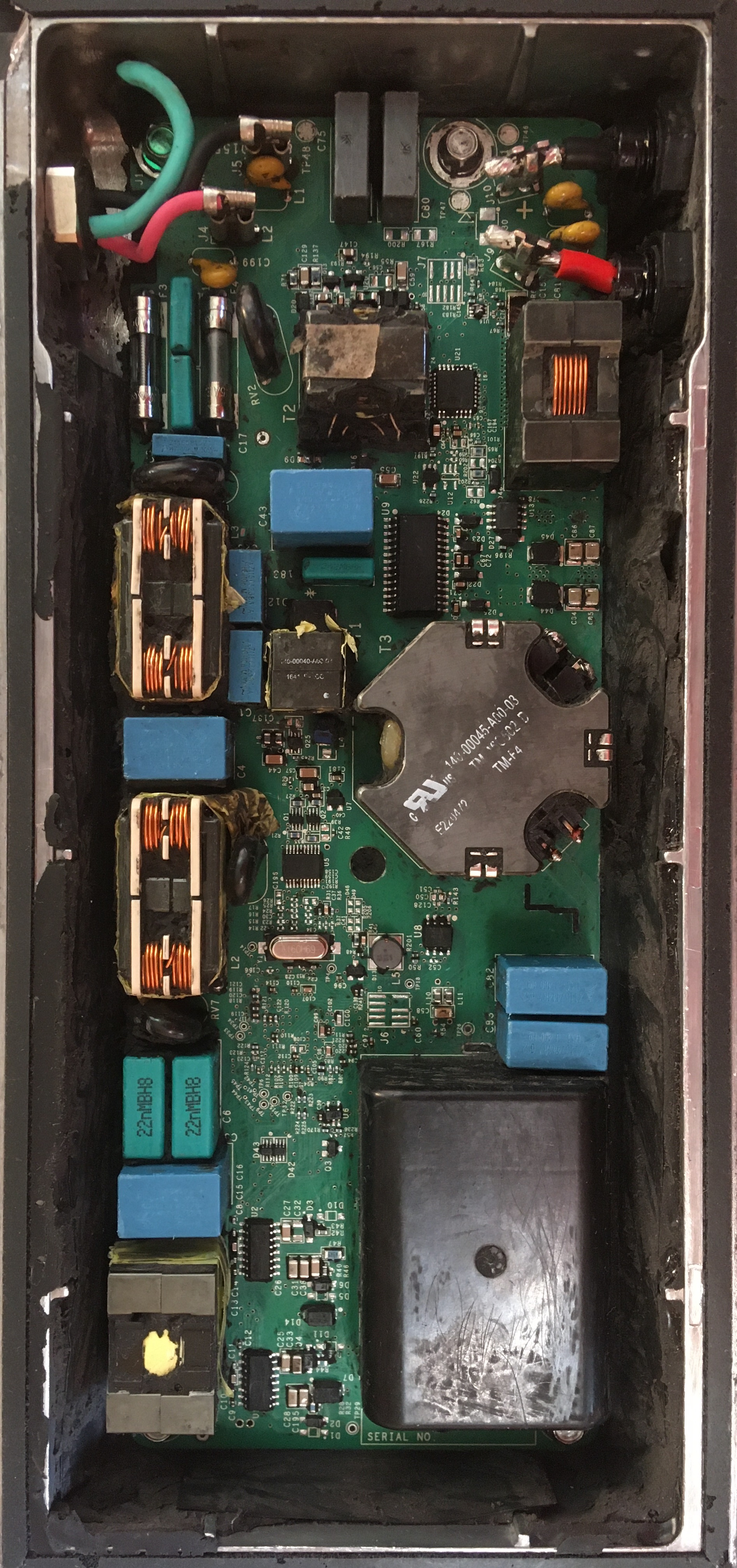
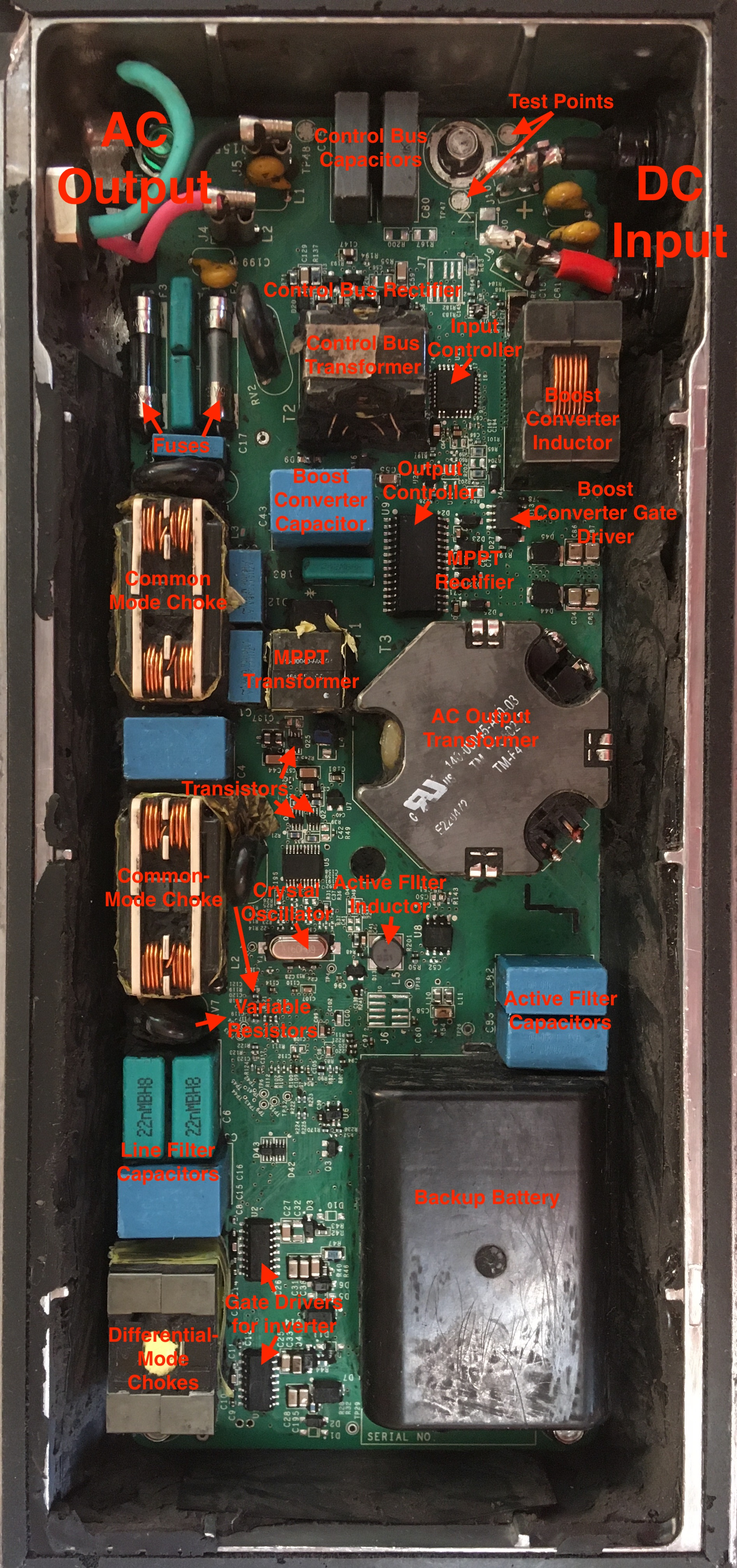
microinverter published

diff --git a/teardowns/microinverter.html b/teardowns/microinverter.html
@@ -24,7 +24,7 @@
 	<p class="label">Front View</p>
 	<img src="../images/teardowns/microinverter/label.jpg" alt="Product Label on Back of Microinverter" class="center">
 	<p class="label">Back View</p>
-	<p>&emsp;&emsp;Before I get into the teardown, I'd like to discuss a bit of the history of how microinverters came to be and what other products are used as alternatives based on some quick internet searches I did. Any solar energy system includes some kind of inverter to convert the DC output of the panel to the AC input used in power lines, homes, and appliances. Inverters accomplish this conversion from DC to AC fundamentally through a series of electrically controlled switches (usually IGBTs) that are rapidly opened and closed over intervals oscillitating in length (i.e Pulse Width Modulation (PWM)) imitating the sinusoidal nature of alternating current. When solar panels first came about commercially, the energy was converted from AC to DC using string inverters. Several solar panels would be connected together through linking wires, forming a "string" of solar panels, and then fed into one centralized inverter unit. Daisy-chaining the solar panels in this fashion makes for easy installation, but when the output of one solar panel in the string is lowered, all the rest in the string are limited by that weakest link. To combat this issue, power optimizers can be placed on each panel to modulate the DC power output of each panel so that they can function at their highest output independent of the output of others in the string. The power optimizers on each panel also allow one to monitor the output of individual panels rather than just the output of the whole string. Despite these improvements, power optimizers still require the use of a centralized inverter which limits the size of the solar panel array that can be used and introduces a central point of failure capable of shutting down all system functionality. Adding an inverter unit under each solar panel&mdash;microinverters&mdash;addresses these problems at the expense of higher part and installation costs. String inverters, inverters with power optimizers, and microinverters each provide different benefits and so the decision of which to use is often left to the user with recommendations provided based on their particular application.</p>
+	<p>&emsp;&emsp;Before I get into the teardown, I'd like to discuss a bit of the history of how microinverters came to be and what other products are used as alternatives based on some quick internet searches I did. Any solar energy system includes some kind of inverter to convert the DC output of the panel to the AC input used in power lines, homes, and appliances. Inverters accomplish this conversion from DC to AC fundamentally through a series of electrically controlled switches (usually IGBTs or high-voltage MOSFETs) that are rapidly opened and closed over intervals oscillitating in length (i.e Pulse Width Modulation (PWM)) imitating the sinusoidal nature of alternating current. When solar panels first came about commercially, the energy was converted from AC to DC using string inverters. Several solar panels would be connected together through linking wires, forming a "string" of solar panels, and then fed into one centralized inverter unit. Daisy-chaining the solar panels in this fashion makes for easy installation, but when the output of one solar panel in the string is lowered, all the rest in the string are limited by that weakest link. To combat this issue, power optimizers can be placed on each panel to modulate the DC power output of each panel so that they can function at their highest output independent of the output of others in the string. The power optimizers on each panel also allow one to monitor the output of individual panels rather than just the output of the whole string. Despite these improvements, power optimizers still require the use of a centralized inverter which limits the size of the solar panel array that can be used and introduces a central point of failure capable of shutting down all system functionality. Adding an inverter unit under each solar panel&mdash;microinverters&mdash;addresses these problems at the expense of higher part and installation costs. String inverters, inverters with power optimizers, and microinverters each provide different benefits and so the decision of which to use is often left to the user with recommendations provided based on their particular application.</p>
 </section>
 <hr>
 <section>
@@ -45,7 +45,7 @@
 <section>
 	<h3>Microinverter PCA</h3>
 	<p>&emsp;&emsp;Using the silkscreen PCB labels, patent schematics, and online resources for power electronics I did my best to identify the important components of this microinverter PCA. With that being said, the labels in the picture below are merely educated guesses. I've had no formal training in electrical engineering. Furthermore, I'm missing a large chunk of information since I wasn't able to easily remove the board and examine the components mounted on the underside.</p>
-	<img src="../images/teardowns/microinverter/PCA copy.jpg" alt="Close-up View of PCA" class="center">
+	<img src="../images/teardowns/microinverter/PCA.jpg" alt="Close-up View of PCA" class="center">
 	<p class="label">Microinverter PCA</p>
 	<p>&emsp;&emsp;There's a lot happening on this PCB, but some generalizations can be made across the board. The blue, green, and gray plastic boxes are likely film capacitors. The yellow disc-like nubs at both the DC input and AC input are also capacitors, although I'm not sure what kind. The metals blocks with exposed copper wiring are fundamentally just large inductors or sets of inductors. These inductors include the blocks labelled inductor, transformer, and choke. The compact black boxes with many pinouts are integrated circuits (ICs), but what function they serve is not easily evident from the outside. I guessed their functionalities based on their size and relative locations on the board. The large black box in the bottom right didn't appear to be labeled. Any number of things could be hidden under the enclosure, but given it's heft I guessed it might be a backup battery. I'm guessing this backup battery is used when the solar panel isn't producing any energy and the microinverter wants to continue communicating with the centralized power distribution system to tell it that the microinverter is still functioning properly despite it not producing any energy. This hypothesis was inspired by the fact that the people who replaced the inverter stated that they had received notice from the microinverter that it had failed. One thing that I saw that I hadn't seen before were test points (silkscreen labeled TP). Test points are conductive discs on the PCB where someone could stick a multimeter probe to take measurements, likely for quality assurance purposes. Beyond that, there are tons of tiny surface mount capacitors, resistors, diodes, transistors, and ICs.</p>
 	<p>&emsp;&emsp;Looking at the PCA gives us some idea of what components play a role in the microinverter operation, but it doesn't tell us how the product works. To understand this, I went to the patent material for this microinverter and supplemented this with internet searches on power electronics concepts. Generally, the functionality of the microinverter can be split into two stages: input processing and output processing.</p>
@@ -62,27 +62,35 @@
 	<img src="../images/teardowns/microinverter/boostConverter.png" alt="Close-up View of PCA" class="center">
 	<p class="label">Boost Converter Circuit</p>
 	<p>&emsp;&emsp;After this optimal voltage is used to draw power from the solar panels, the signal is stepped up further in voltage. Instead of doing this again with a boost converter, the signal is instead converted to AC using an inverter, then stepped up in voltage using a transformer, then rectified back to DC. I found this most unusual as it seemed exceedingly complex, but it may be possible that at higher voltages continuing to raise the voltage of DC signals is made easier by converting to AC, using a transformer, and then converting back to DC instead of trying to use more powerful boost converters. As a note, direct current won't flow through transformers unless PWM is used since the induced EMF in the second coil can only be generated by an alternating magnetic field from the first coil.</p>
-	<p>&emsp;&emsp;Rectifiers aren't solitary components, rather a group of four diodes with several nearby capacitors usually. This is why I labelled the two separate groups of four surface mount diodes on the PCB as rectifiers. So far though, I've only discussed the purpose of one in rectifying the high voltage AC signal. The other is likely a part of a similar circuit with an inverter, transformer, and rectifier except in this case the transformer is a step-down transformer. This rectifier and associated transformer I labeled as "control rectifier" and "control transformer" since I believed that they stepped down the voltage to provide power to the control electronics on board the microinverter. The control ICs likely are meant to operate under 12V whereas the voltage output by the solar panel is usually around 25V and will be even higher after boost conversion. "Where is the 'control inverter'?" you might ask. The large insulated-gate bipolar transistors (IGBTs) responsible for the inversion to AC are likely located on the underside of the PCB.</p>
+	<p>&emsp;&emsp;Rectifiers aren't solitary components, rather a group of four diodes with several nearby capacitors usually. This is why I labelled the two separate groups of four surface mount diodes on the PCB as rectifiers. So far though, I've only discussed the purpose of one in rectifying the high voltage AC signal. The other is likely a part of a similar circuit with an inverter, transformer, and rectifier except in this case the transformer is a step-down transformer. This rectifier and associated transformer I labeled as "control bus rectifier" and "control bus transformer" since I believed that they stepped down the voltage to provide power to the control electronics on board the microinverter. The control ICs likely are meant to operate under 12V whereas the voltage output by the solar panel is usually around 25V and will be even higher after boost conversion. "Where is the 'control inverter'?" you might ask. The large transistors responsible for the inversion to AC are likely located on the underside of the PCB.</p>
 	<img src="../images/teardowns/microinverter/inputInverter.png" alt="Close-up View of PCA" class="center">
 	<p class="label">Input Converter Block Diagram (US 8,279,642)</p>
 	<img src="../images/teardowns/microinverter/inputInverterCircuit.png" alt="Close-up View of PCA" class="center">
 	<p class="label">Input Converter Circuit Diagram (US 8,279,642)</p>
 	<h4>Output Processing</h4>
-	<p>&emsp;&emsp;</p>
+	<p>&emsp;&emsp;Although the signal was inverted during the input processing stage so that a transformer could be used to further raise the voltage, it was rectified so that DC power could be stored in the power bus. The current must be inverted again so that the final output is AC. This can't just be any AC either, it has to be 120V 60Hz AC with a convincing smooth sinusoidal nature. After inverting the signal to AC, another transformer is required to step-up the voltage to 120V. Based on the relative positioning of the ununusal octagon transformer to the outflow path, I believed it to be responsible and labeled it the "AC Output Transformer". The shape seemed quite unusual for a transformer instead of the regular iron block surrounded by copper windings. One guess I have is that the transformer may have many sets of inductors which can be used to raise the voltage to 120V from a number of different voltages at the power bus due to the effects of MPPT. I attempted to search for the product by the label atop it, but all I learned was that the RU logo is used by Underwriters Laboratories (UL)&mdash;an engineering safety certification company&mdash;to indicate that parts labeled meet certain quality standards. To generate oscillations at a frequency of 60Hz, I assume that the output controller makes use of the crystal oscillator to keep track of time.</p>
+	<p>&emsp;&emsp;The signal is inverted from DC to AC using a switch mode power supply strategy similar to the boost converter. Ideal alternating current is a sinusoidal wave alternating around zero between a maximum positive and negative value. The power inverter imitates this sinusoidal wave by opening and closing switches using PWM, two switches for the positive half of the wave and another two for the negative half of the wave. These switches are high power transistors (usually IGBTs or high-voltage MOSFETs), relatively large components often having metal backings. Looking at the diagram below, closing switches q1 and q4 would generate positive direct current, while closing switches q2 and q3 would generate negative direct current. Therefore, switching between these two states would just generate a square wave of alternating current not the desired sinusoidal wave. </p>
 	<img src="../images/teardowns/microinverter/inversionConceptCircuit.png" alt="Close-up View of PCA" class="center">
 	<p class="label">Inverter Circuit Diagram (US 8,508,964)</p>
+	<p>&emsp;&emsp;By rapidly opening and closing the switches with a PWM control signal, on average a more sinusoidal wave is produced. Note the PWM pulse width that I added in red to the patent figure below showing how the PWM pulse width (i.e. duty cycle) grows and shrinks over the course of the wave. Only the positive portion of this wave is pictured.</p>
 	<img src="../images/teardowns/microinverter/inversionConcept.png" alt="Close-up View of PCA" class="center">
 	<p class="label">Alternating Current Generated from PWM of DC Source Through Inductors (US 8,508,964)</p>
+	<p>&emsp;&emsp;It's interesting to note that the output controller makes use of a proportional-integral (PI) controller to adjust the PWM signal which ultimately controls the frequency and voltage&mdash;albeit another transformer is used later&mdash;of the output AC signal. This would seem to suggest that the system is optimized to reduce steady state error while fast reactions to dramatic changes are considered less important in this application.</p>
 	<img src="../images/teardowns/microinverter/outputController.png" alt="Close-up View of PCA" class="center">
 	<p class="label">Output Converter Controller Block Diagram (US 8,284,574)</p>
+	<p>&emsp;&emsp;One problem that arises as a result of the switch mode power supply strategies implemented in the inverter and boost converter circuits is high frequency noise due to the rapid switching on and off of transistors. To rid the output AC signal of this noise an active filter is implemented prior to the inverter and an electromagnetic interference (EMI) filter is implemented after the inverter. Like most electronics filters, these filters rely on the energy storage capability of inductors and capacitors to reduce noise in the signal.</p>
 	<img src="../images/teardowns/microinverter/outputConverter.png" alt="Close-up View of PCA" class="center">
 	<p class="label">Output Converter Block Diagram (US 8,279,642)</p>
 	<img src="../images/teardowns/microinverter/outputConverterCircuit1.png" alt="Close-up View of PCA" class="center">
 	<p class="label">Output Converter Circuit Diagram Part 1 (US 8,279,642)</p>
+	<p>&emsp;&emsp;The method by which inductors were used to filter the signal in the EMI filter was new to me. The inductors in the filter are termed "chokes" given their ability to choke higher frequencies while allowing lower frequency AC or DC to pass. The first two chokes labeled 440 and 442 in the picture below are differential-mode chokes, while the second two chokes labeled 446 and 448 are common-mode chokes. Ultimately the output of the AC conversion is two hot lines (Line 1 and Line 2 below) and one neutral line, so two hot lines must be filtered. Differential-mode chokes act on each line separately while common-mode chokes simulataneously act on both lines. Given the relative positioning of the large inductors on the board to the AC output, I determined which set were the differential-mode chokes and which set were the common-mode chokes. I assumed that the differential mode inductors were contained in the same block at the bottom left corner of the PCB. This seems counterintuitive, but based on its location in the line leading to the AC output seemed reasonable. A set of fuses&mdash;one for each line&mdash;right before the AC output ensure that the microinverter doesn't overload the home circuit when it fails.</p>
 	<img src="../images/teardowns/microinverter/outputConverterCircuit2.png" alt="Close-up View of PCA" class="center">
 	<p class="label">Output Converter Circuit Diagram Part 2 (US 8,279,642)</p>
-	<p>&emsp;&emsp;Blue, green, and gray boxes are film capacitors. Yellow capacitors by DC input and AC output are likely also film capacitors, although the disk shape made me think of ceramic disk capacitors (but they're not glossy). First controller and transformer likely involved in maximum power point tracking to ensure that the maximum power is extract from the solar panel. Where is the inverter stage where the DC is actually converted to AC? There are likely other components on the bottom of the board like the transistors used to convert DC to AC and modulate the voltage output of the MPPT transformer. Maybe one power transformer to maximize power draw from solar panel, another to lower the voltage to power controllers on board, and another to raise the voltage to 120 V for AC release. Black square is probably a microcontroller, black rectangles are probably gate drivers used to raise the low-power input from a controller IC to a high-current drive input for the gate of a high-power transistor (like an IGPT or power MOSFET).</p>
-	<p>&emsp;&emsp;DC power enters the microinverter unit between 12 and 80 V. The voltage and thus current draw from the solar panels is adjusted continuosly to maximize the power output since the relationship between power (the product of voltage and current) is not linearly related to the voltage for solar panels. Instead, a voltage exists for which the maximum amount of power can be drawn from the solar panels. This process is called maximum power point tracking and requires a controller IC to monitor the power output and adjusts the voltage of a DC-DC buck-boost converter (transformer wouldn't work for AC). The black disk likes pieces labeled RV are variable resistors. The RU logo is the "recognized component mark" used by Underwriters Laboratories (UL), a engineering safety certification company, to indicate the parts labeled meet certain quality standards. It appears that there are inductors at the power connections for the AC output, I'm not sure why. Talk about why the AC output has a neutral line while the DC input does not. Instead using a buck-boost converter, sometimes DC is converted to AC, then voltage changed with a transformer, and then rectified. Actually it looks more like a flyback transformer is used witha coupled inductor (similar but different to a transformer). Microinverter has to accomplish several goals: extract maximum power, step-up voltage, and convert to AC. Big hexagon transformer likely has multiple windings for different inductor ratios, but duty cycle could also be changed to change output voltage. Chokes are used to filter out noise (can be seen in schematic). Lots of noise produced during the inversion process when rapidly flipping on and off gates. Chokes come in two kinds: common mode (for two conductors) and differential mode (for one conductor). Good resource here <a href="https://info.triadmagnetics.com/blog/differential-vs-common-mode-chokes">link</a>. Maybe variable resistors are used to measure output signal to for feedback control purposes. Crystal oscillator likely used to make sure output signal is 60 Hz.</p>
+</section>
+<hr>
+<section>
+	<h3>Conclusion</h3>
+	<p>&emsp;&emsp;This teardown was a great experience to learn more about electronics, particularly power systems. I was definitely in way over my head and making lots of questionable assumptions about what the microinverter PCA was actually doing. Carving out all of the rubber to get access to the PCA was a terrible pain, but the fact that Sunpower had plentiful documentation in the form of their patents made the teardown experience worthwhile.</p>
 </section>
 </article>
 </main>

diff --git a/teardowns/teardowns.html b/teardowns/teardowns.html
@@ -49,6 +49,14 @@
 			<nav role='navigation'>
 				<ul>
 					<li>
+						<a href="microinverter.html" title="Microinverter" class="pageLink">
+							<div class="imageContainer">
+								<img src="../images/home/microinverter.jpg" alt="Microinverter">
+							</div>
+							<div class="imageLabel">Microinverter</div>
+						</a>
+					</li>
+					<li>
 						<a href="alarmClock.html" title="Alarm Clock" class="pageLink">
 							<div class="imageContainer">
 								<img src="../images/home/alarmClock.jpg" alt="Alarm Clock">
